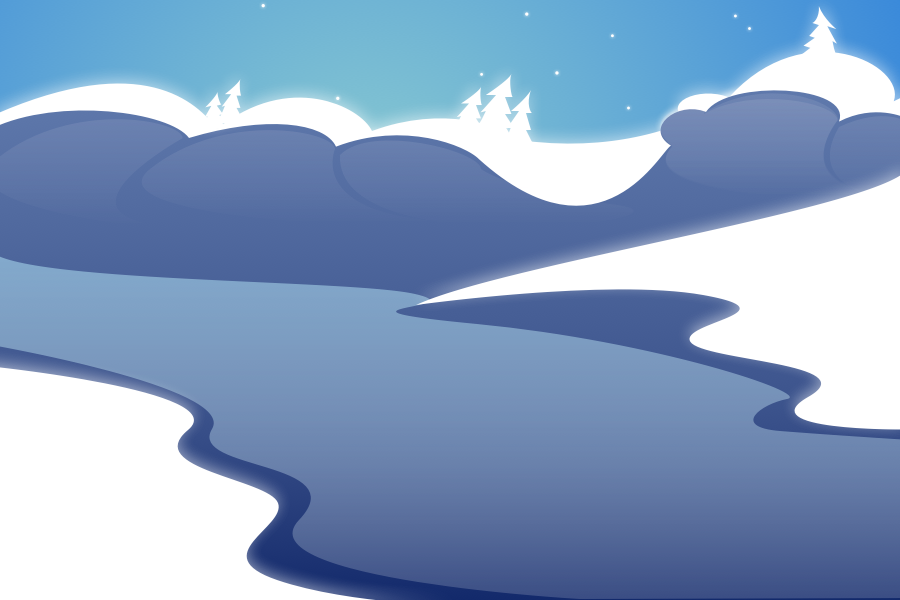
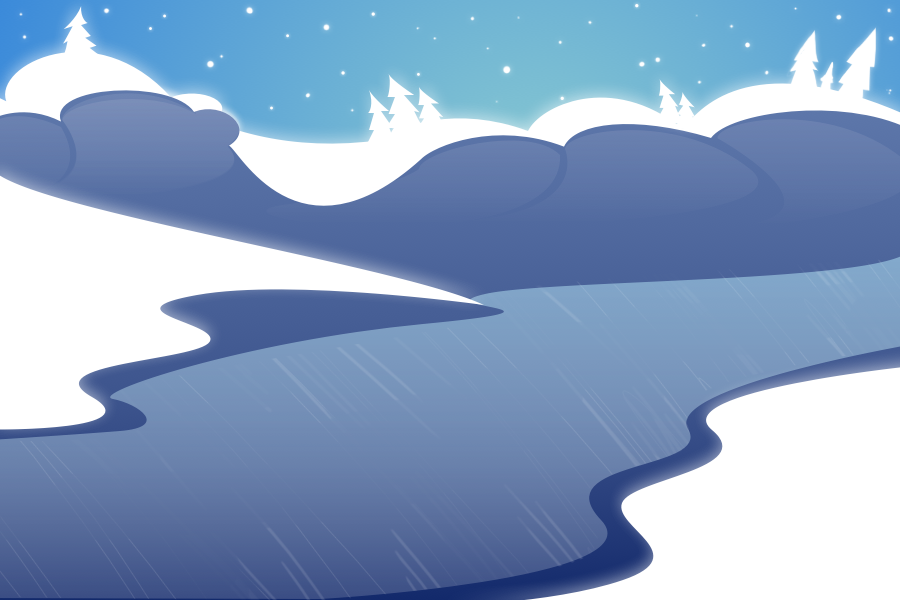
Livello 7
Implementata IA per goblin
Corretti livelli 3 e 4
Aggiunti livelli 6 e 7

diff --git a/js/main.js b/js/main.js
@@ -28,14 +28,14 @@
 			addElement( "eg-die",		"img/splash/UI-lose.png" ).
 			
 			//backgrounds
-			addElement( "bg",				"img/bg.png" ).
+			addElement( "bg",			"img/bg.png" ).
 			addElement( "bg-1",			"img/bg/level-1.png" ).
 			addElement( "bg-2",			"img/bg/level-2.png" ).
 			addElement( "bg-3",			"img/bg/level-3.png" ).
 			addElement( "bg-4",			"img/bg/level-4.png" ).
 			addElement( "bg-5",			"img/bg/level-5.png" ).
-			addElement( "bg-6",				"img/bg/6.jpeg" ).
-			addElement( "bg-7",				"img/bg/7.jpeg" ).
+			addElement( "bg-6",			"img/bg/level-6.png" ).
+			addElement( "bg-7",			"img/bg/level-7.png" ).
 			
 			//player
 			addElement( "tree",			"img/sprites/tree.png" ).

diff --git a/js/enemies.js b/js/enemies.js
@@ -203,5 +203,23 @@ game.enemiesBook = {
 				frames: [0, 1], duration: 200
 			}
 		},
+		ai: function() {
+		    
+            if ( this.cooldown-- > 0 && roll() > 3 ) {
+                if ( !this.moving ) {
+                    this.move( roll( 1, 100, 400 ) , roll( 1, 500, 100 )  );
+                }
+            } else {
+                
+                if ( this.moving ) {
+                    this.halt( );
+                }
+                if ( this.cooldown <= 0 ) {
+                    game.player.notifyAt( "shoot", this );
+    				this.attack( );
+				}
+            }
+            
+		}
 	},
 };

diff --git a/js/levels.js b/js/levels.js
@@ -7,7 +7,7 @@
 		[ { orc:1, troll:1 }, { orc:2, troll:2 }, { orc:3, troll:3 } ],
 		[ { troll:1 }, { troll:2 }, { troll:3 } ],
 		[ { shadow:1 }, { shadow:2 }, { shadow:3 } ],
-		[ { gel_cube:1 }, { gel_cube:2 }, { gel_cube:3 } ],
+		[ { goblin:7 } ],
 		[ { kobold:5 }, { orc:4 }, { troll:3 }, { shadow:2 }, { gel_cube:1 } ]
 	];
 	
